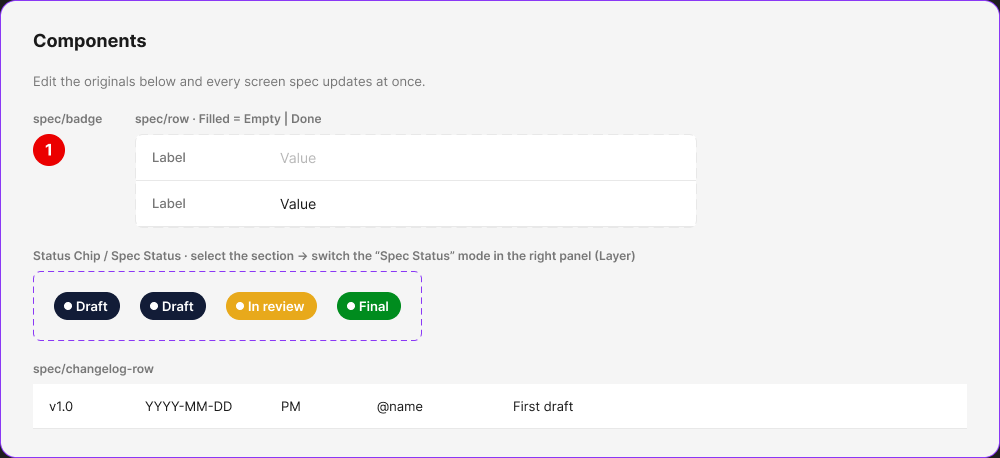
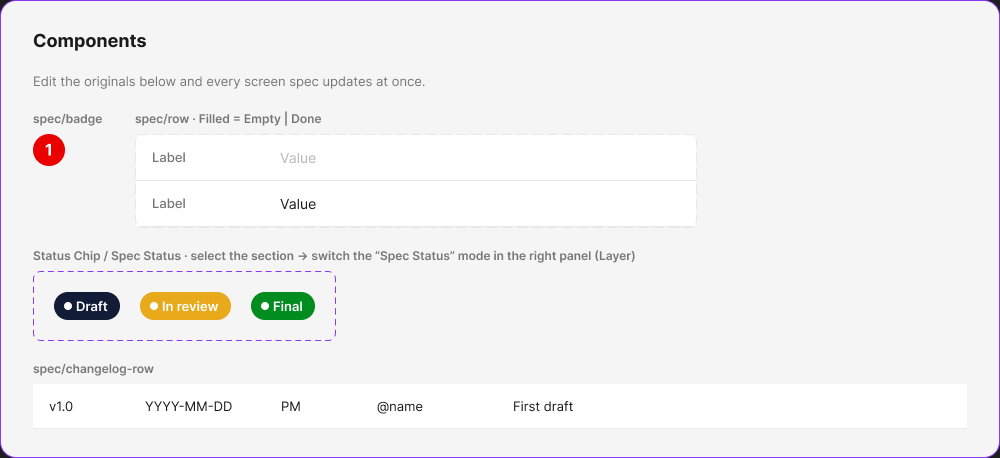
feat(template): status chip variants bound to variables

Changed region(s): [[0.124, 0.6114, 0.403, 0.7031]]

diff --git a/figma-template/build-template.js b/figma-template/build-template.js
@@ -208,9 +208,17 @@ const statusVariant = (name, label, i, bound) => {
   if (bound) { t.fills = boundPaint(statusVars.vFg, "#ffffff"); t.setBoundVariable("characters", statusVars.vLabel); }
   return c;
 };
+// With variables: the default variant follows the section's mode; the other variants pin a mode
+// (same as the original design). Without variables (free plan): one fixed-color variant per status.
 const statusComps = [];
-if (statusVars) statusComps.push(statusVariant(L.status.variant, L.status.modes[0], 0, true));
-L.status.modes.forEach((m, i) => statusComps.push(statusVariant(m, m, i, false)));
+if (statusVars) {
+  statusComps.push(statusVariant(L.status.variant, L.status.modes[0], 0, true));
+  L.status.modes.slice(1).forEach((m, j) => {
+    const c = statusVariant(m, m, j + 1, true);
+    c.setExplicitVariableModeForCollection(statusVars.col, statusVars.modeIds[j + 1]);
+    statusComps.push(c);
+  });
+} else L.status.modes.forEach((m, i) => statusComps.push(statusVariant(m, m, i, false)));
 const statusSet = figma.combineAsVariants(statusComps, statusHolder);
 statusSet.name = L.status.comp;
 statusSet.layoutMode = "HORIZONTAL"; statusSet.itemSpacing = 20;

diff --git a/README.md b/README.md
@@ -170,7 +170,7 @@ A ready-made template in **Korean and English**: a blank spec with a mockup area
 <tr>
 <td width="62%"><img src="https://raw.githubusercontent.com/cherryeongyeo/screenspec-mcp/main/docs/images/sample-en.png?v=2" alt="Blank screen spec template"></td>
 <td valign="top">
-<img src="https://raw.githubusercontent.com/cherryeongyeo/screenspec-mcp/main/docs/images/components-en.png?v=2" alt="Components: number badge, spec row, status chip and change log row">
+<img src="https://raw.githubusercontent.com/cherryeongyeo/screenspec-mcp/main/docs/images/components-en.png?v=3" alt="Components: number badge, spec row, status chip and change log row">
 <br><br>
 <b>spec/badge</b>: the element number, on the mockup and on the element card.<br><br>
 <b>spec/row</b>: one spec line. Switch <i>Filled</i> from Empty to Done and the text turns black.<br><br>
